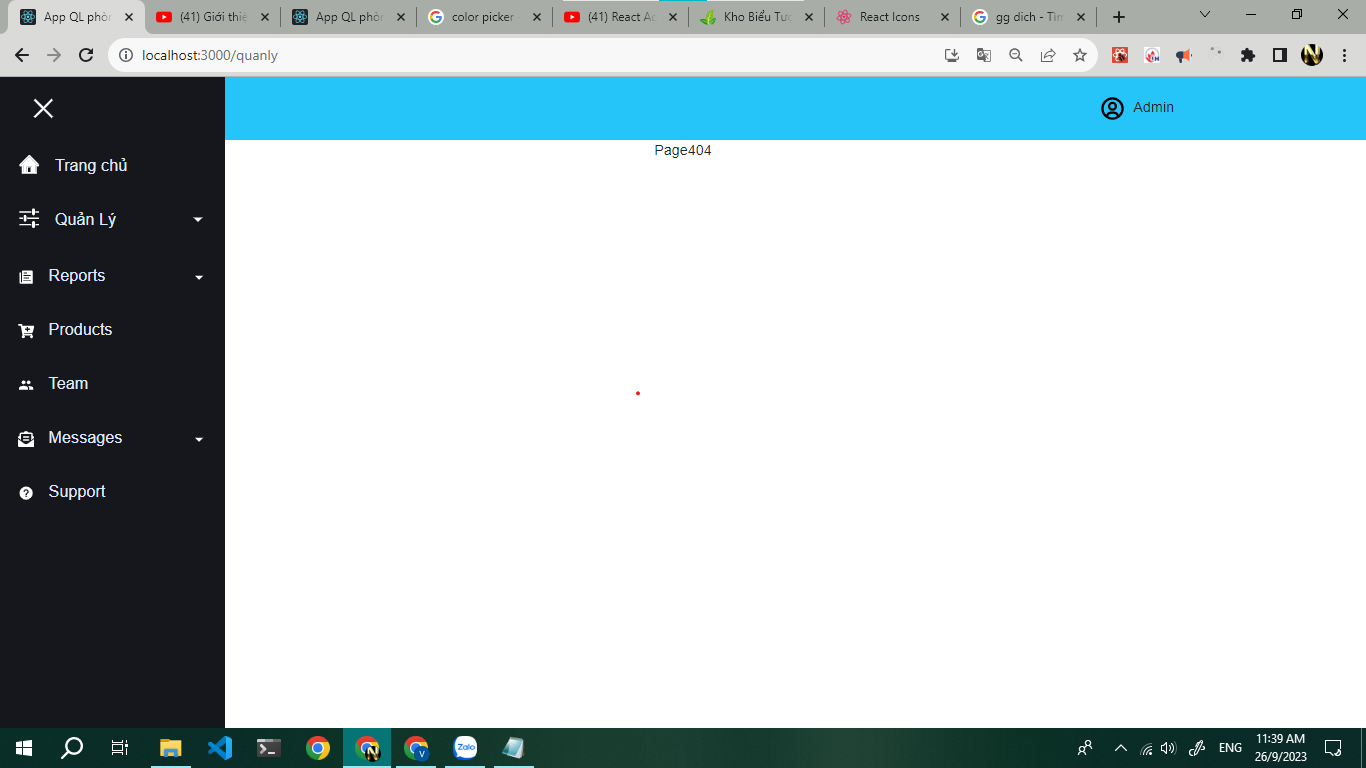
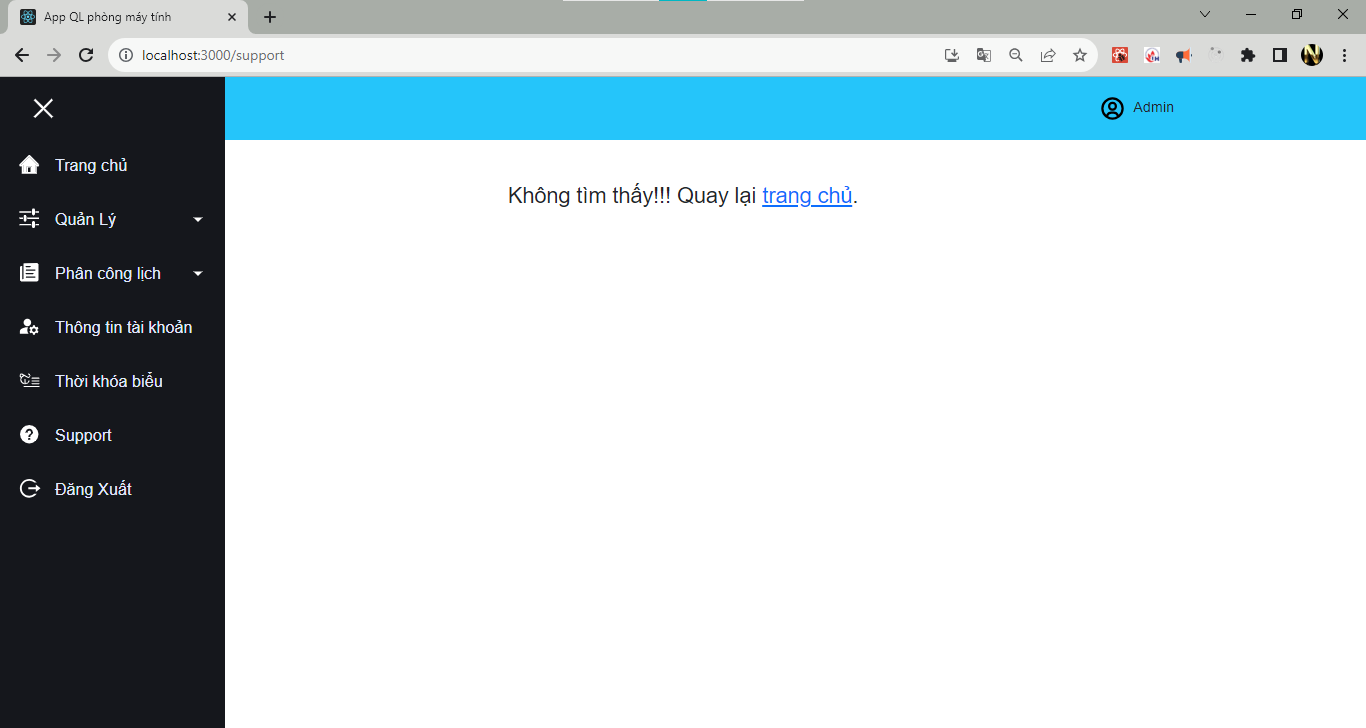
finish sideBar

diff --git a/src/components/common/SideBar/SidebarData.jsx b/src/components/common/SideBar/SidebarData.jsx
@@ -5,6 +5,9 @@ import * as AiIcons from 'react-icons/ai';
 import * as IoIcons from 'react-icons/io';
 import * as RiIcons from 'react-icons/ri';
 import * as LiaIcons from 'react-icons/lia';
+import * as MdIcons from 'react-icons/md';
+import * as Si from 'react-icons/si';
+import * as PiIcons from 'react-icons/pi';
 
 export const SidebarData = [
     
@@ -15,7 +18,7 @@ export const SidebarData = [
   },
   {
     title: 'Quản Lý',
-    path: '/quanly',
+    path: '/quan-ly',
     icon: <IoIcons.IoMdOptions style={{marginBottom:'6px', fontSize:'25px'}} />,
     iconClosed: <RiIcons.RiArrowDownSFill style={{marginBottom:'6px', fontSize:'20px'}}  />,
     iconOpened: <RiIcons.RiArrowUpSFill style={{marginBottom:'6px', fontSize:'20px'}} />,
@@ -23,108 +26,78 @@ export const SidebarData = [
     subNav: [
       {
         title: 'Khu vực',
-        path: '/quanly/khuvuc',
-        icon: <FaIcons.FaMapMarkedAlt />
+        path: '/quan-ly/khu-vuc',
+        icon: <FaIcons.FaMapMarkedAlt style={{marginBottom:'6px', fontSize:'25px'}} />
       },
       {
         title: 'Phòng máy',
-        path: '/quanly/phong',
-        icon: <Fa6Icons.FaComputer />
+        path: '/quan-ly/phong',
+        icon: <Fa6Icons.FaComputer style={{marginBottom:'6px', fontSize:'25px'}} />
       },
       {
         title: 'Thiết bị',
-        path: '/quanly/thietbi',
-        icon: <Fa6Icons.FaComputer />
-      },
-      {
-        title: 'Thiết bị',
-        path: '/quanly/thietbi',
-        icon: <Fa6Icons.FaComputer />
+        path: '/quan-ly/thiet-bi',
+        icon: <Fa6Icons.FaComputer style={{marginBottom:'6px', fontSize:'25px'}} />
       },
       {
         title: 'Phần mềm',
-        path: '/quanly/phanmem',
-        icon: <Fa6Icons.FaComputer />
+        path: '/quan-ly/phan-mem',
+        icon: <Si.SiJirasoftware style={{marginBottom:'6px', fontSize:'25px'}} />
       },
       {
         title: 'Khoa',
-        path: '/quanly/khoa',
-        icon: <Fa6Icons.FaComputer />
+        path: '/quan-ly/khoa',
+        icon: <MdIcons.MdOutlineScience style={{marginBottom:'6px', fontSize:'25px'}} />
       },
       {
         title: 'Môn học',
-        path: '/quanly/Mon',
-        icon: <Fa6Icons.FaComputer />
+        path: '/quan-ly/mon',
+        icon: <IoIcons.IoMdBook style={{marginBottom:'6px', fontSize:'25px'}} />
       },
       {
         title: 'Giáo viên',
-        path: '/quanly/giaovien',
-        icon: <LiaIcons.LiaChalkboardTeacherSolid />
+        path: '/quan-ly/giao-vien',
+        icon: <LiaIcons.LiaChalkboardTeacherSolid style={{marginBottom:'6px', fontSize:'25px'}} />
       }
 
     ]
   },
   {
-    title: 'Reports',
-    path: '/reports',
-    icon: <IoIcons.IoIosPaper />,
-    iconClosed: <RiIcons.RiArrowDownSFill />,
-    iconOpened: <RiIcons.RiArrowUpSFill />,
+    title: 'Phân công lịch',
+    path: '/phan-cong',
+    icon: <IoIcons.IoIosPaper style={{marginBottom:'6px', fontSize:'25px'}} />,
+    iconClosed: <RiIcons.RiArrowDownSFill style={{marginBottom:'6px', fontSize:'20px'}} />,
+    iconOpened: <RiIcons.RiArrowUpSFill style={{marginBottom:'6px', fontSize:'20px'}} />,
 
     subNav: [
       {
-        title: 'Reports',
-        path: '/reports/reports1',
-        icon: <IoIcons.IoIosPaper />,
+        title: 'Lịch trực',
+        path: '/phan-cong/lich-truc',
+        icon: <IoIcons.IoIosPaper style={{marginBottom:'6px', fontSize:'25px'}} />,
         cName: 'sub-nav'
       },
       {
-        title: 'Reports 2',
-        path: '/reports/reports2',
-        icon: <IoIcons.IoIosPaper />,
+        title: 'Lịch thực hành',
+        path: '/phan-cong/lich-thuc-hanh',
+        icon: <IoIcons.IoIosPaper style={{marginBottom:'6px', fontSize:'25px'}}  />,
         cName: 'sub-nav'
-      },
-      {
-        title: 'Reports 3',
-        path: '/reports/reports3',
-        icon: <IoIcons.IoIosPaper />
       }
     ]
   },
   {
-    title: 'Products',
-    path: '/products',
-    icon: <FaIcons.FaCartPlus />
+    title: 'Thông tin tài khoản',
+    path: '/account',
+    icon: <MdIcons.MdManageAccounts style={{marginBottom:'6px', fontSize:'25px'}}  />
   },
   {
-    title: 'Team',
-    path: '/team',
-    icon: <IoIcons.IoMdPeople />
-  },
-  {
-    title: 'Messages',
-    path: '/messages',
-    icon: <FaIcons.FaEnvelopeOpenText />,
-
-    iconClosed: <RiIcons.RiArrowDownSFill />,
-    iconOpened: <RiIcons.RiArrowUpSFill />,
-
-    subNav: [
-      {
-        title: 'Message 1',
-        path: '/messages/message1',
-        icon: <IoIcons.IoIosPaper />
-      },
-      {
-        title: 'Message 2',
-        path: '/messages/message2',
-        icon: <IoIcons.IoIosPaper />
-      }
-    ]
+    title: 'Thời khóa biểu',
+    path: '/thoi-khoa-bieu',
+    icon: <PiIcons.PiArticleNyTimesLight style={{marginBottom:'6px', fontSize:'25px'}} />
   },
   {
     title: 'Support',
     path: '/support',
-    icon: <IoIcons.IoMdHelpCircle />
+    icon: <IoIcons.IoMdHelpCircle style={{marginBottom:'6px', fontSize:'25px'}} />
   }
+
 ];

diff --git a/src/components/common/SideBar/SideBar.jsx b/src/components/common/SideBar/SideBar.jsx
@@ -4,6 +4,7 @@ import { Link } from "react-router-dom";
 import * as FaIcons from "react-icons/fa";
 import * as AiIcons from "react-icons/ai";
 import * as BiIcons from "react-icons/bi";
+import * as RiIcons from "react-icons/ri";
 import { SidebarData } from "./SidebarData";
 import SubMenu from "./SubMenu.jsx";
 import { IconContext } from "react-icons/lib";
@@ -50,12 +51,15 @@ const Sidebar = () => {
   return (
     <>
       <IconContext.Provider value={{ color: "#fff" }}>
-        <Nav className="" style={{background:'#25c5fa'}}>
+        <Nav className="" style={{ background: "#25c5fa" }}>
           <NavIcon to="#">
             <FaIcons.FaBars onClick={showSidebar} />
           </NavIcon>
           <div className="col-10 pe-4" style={{ textAlign: "right" }}>
-            <BiIcons.BiUserCircle className="me-2" style={{fontSize:'30px', color: 'black'}} />
+            <BiIcons.BiUserCircle
+              className="me-2"
+              style={{ fontSize: "30px", color: "black" }}
+            />
             Admin
           </div>
         </Nav>
@@ -67,6 +71,19 @@ const Sidebar = () => {
             {SidebarData.map((item, index) => {
               return <SubMenu item={item} key={index} />;
             })}
+
+            <SubMenu
+              item={{
+                title: "Đăng Xuất",
+                path: "/logout",
+                icon: (
+                  <RiIcons.RiLogoutCircleRLine
+                    style={{ marginBottom: "6px", fontSize: "25px" }}
+                  />
+                ),
+              }}
+              key={"index"}
+            />
           </SidebarWrap>
         </SidebarNav>
       </IconContext.Provider>

diff --git a/src/pages/Page404/Page404.jsx b/src/pages/Page404/Page404.jsx
@@ -1,12 +1,13 @@
 //rafcp
 import React from 'react'
 import PropTypes from 'prop-types'
+import {NavLink} from 'react-router-dom'
 
 const Page404 = props => {
   return (
-    <div>
-      Page404
-    </div>
+    <>
+      <h4 className="mt-5">Không tìm thấy!!! Quay lại <NavLink to="">trang chủ</NavLink>.</h4>
+    </>
   )
 }
 
